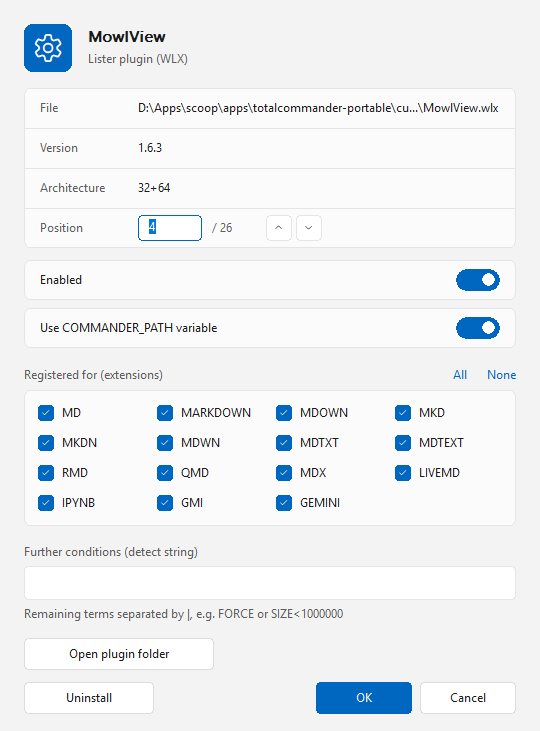
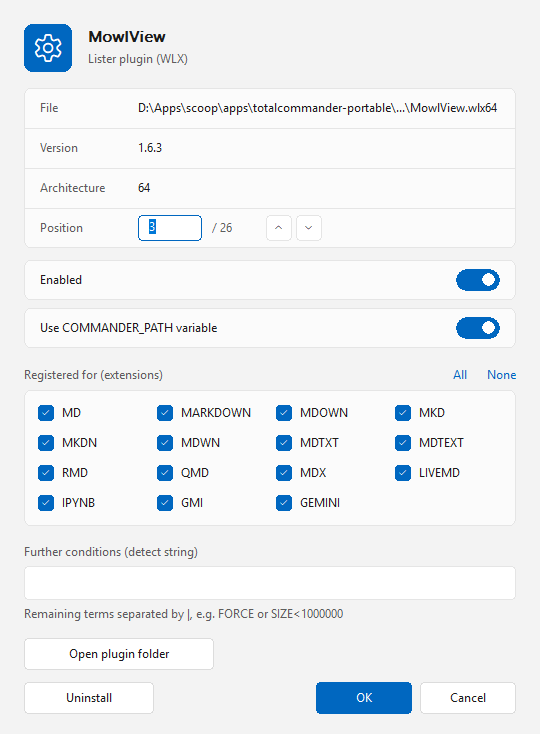
Plugins 1.2.0

diff --git a/README.de.md b/README.de.md
@@ -12,7 +12,7 @@ Er zeigt alle Plugins des Total Commanders als Dateien in einem Panel und lässt
 *Plugins* öffnest du über die Netzwerkumgebung bzw. die Liste der Dateisystem-Plugins.
 
 - Ein Ordner pro Plugin-Typ: Lister, Packer, Inhalt, Dateisystem.
-- Jedes Plugin ist eine Datei. Lister- und Inhalts-Plugins tragen ihre Ladereihenfolge als Zahl (`01`, `02`, …); deaktivierte Plugins sind mit „(aus)“ markiert und stehen am Ende.
+- Jedes Plugin ist eine Datei. Lister-, Inhalts- und Dateisystem-Plugins tragen ihre Reihenfolge als Zahl (`00`, `01`, … wie in der `wincmd.ini`); deaktivierte Plugins sind mit „(aus)“ markiert und stehen am Ende.
 - Das Panel öffnet sich in einer Spaltenansicht mit Name, Status und „Registriert für“ (Endungen eines Packers, Detect String der übrigen). Weitere Spalten für eigene Ansichten (*Benutzerdefinierte Spalten*, Plugin „Plugins“): Position, Typ, Architektur, Pfad, Version, Beschreibung.
 
 ## Aktionen
@@ -20,10 +20,10 @@ Er zeigt alle Plugins des Total Commanders als Dateien in einem Panel und lässt
 - **Installieren:** eine Plugin-Datei (`.wlx`, `.wcx`, `.wdx`, `.wfx`, auch die 64-Bit-Varianten) oder ein ZIP/7z mit `pluginst.inf` ins Panel kopieren (F5/F6, Drag & Drop), in die Wurzel oder in einen der Ordner – der Typ wird aus der Datei gelesen. Plugins fragt vorher nach und lehnt Plugins ab, die nur in der anderen Bit-Breite als der Total Commander vorliegen. Die Dateien landen im Plugin-Ordner des Total Commanders und das Plugin wird registriert (Lister: der Detect String wird aus dem Plugin gelesen, Packer: Endungen aus `pluginst.inf` oder werden erfragt). Eine Plugin-Datei, die der Total Commander geladen hat, lässt sich nicht überschreiben; die alte Datei wird daher in *Name*`.old` umbenannt und die neue daneben geschrieben. Die `.old`-Datei wird beim nächsten Laden von Plugins gelöscht.
 - **Deinstallieren:** Entf, oder die Schaltfläche *Deinstallieren* in den Eigenschaften (Enter). Das Plugin wird abgemeldet und sein Ordner in den Papierkorb verschoben.
 - **Aktivieren / Deaktivieren:** Alt+Enter. Ein deaktiviertes Plugin bleibt in `[InactivePlugins]` und kehrt an seinen Platz zurück, wenn du es wieder aktivierst.
-- **Reihenfolge ändern:** in den Eigenschaften (Enter) die Pfeil-Buttons neben der Position benutzen (oder die Tasten Hoch und Runter), die neue Position eintippen, oder den Eintrag umbenennen (Umschalt+F6) und die Zahl am Anfang ändern, zum Beispiel `05 Synta` in `01 Synta`. Nur Lister- und Inhalts-Plugins haben eine Reihenfolge.
+- **Reihenfolge ändern:** in den Eigenschaften (Enter) die Pfeil-Buttons neben der Position benutzen (oder die Tasten Hoch und Runter), die neue Position eintippen, oder den Eintrag umbenennen (Umschalt+F6) und die Zahl am Anfang ändern, zum Beispiel `05 Synta` in `01 Synta`. Lister-, Inhalts- und Dateisystem-Plugins haben eine Reihenfolge (bei Dateisystem-Plugins die der Einträge in der wincmd.ini; der Total Commander 11.5 zeigt sie in der Netzwerkumgebung trotzdem nach Namen sortiert); Packer nicht. Optional (Einstellung „Alt+Hoch / Alt+Runter verschiebt Lister-, Inhalts- und Dateisystem-Plugins“, standardmäßig aus): Alt+Hoch / Alt+Runter verschiebt den Eintrag unter dem Cursor direkt im Panel um eine Stelle, der Cursor folgt; das gilt nur in den Ordnern Lister, Inhalt und Dateisystem.
 - **Eigenschaften** (Enter): bei Lister- und Inhalts-Plugins werden die Endungen des Detect Strings als Kontrollkästchen angezeigt, zusammen mit denen, die das Plugin selbst vorschlägt; an- oder abhaken, *Alle* / *Keine* benutzen. Andere Teile des Detect Strings (`FORCE`, `SIZE<…`, Gruppen) bleiben unverändert in einem Feld darunter. Bei Packern sind die Kontrollkästchen die Endungen, für die der Packer registriert ist; eine Endung, die ein anderer Packer benutzt, wechselt zu diesem.
 - Derselbe Dialog hat einen Schalter *Pfad mit %COMMANDER_PATH% speichern*: der Plugin-Pfad wird als `%COMMANDER_PATH%\plugins\…` (portabel) oder als absoluter Pfad gespeichert.
-- **Info** in der Wurzel zeigt den Über-Dialog, **Einstellungen** öffnet die Einstellungen: Darstellung (Auto / Hell / Dunkel), Sprache (Auto / Deutsch / English), ob neue Plugins mit `%COMMANDER_PATH%` gespeichert werden, ob nur die zur Bitbreite des Total Commanders passenden Dateien kopiert werden (32 oder 64 Bit), eine Schaltfläche *Aufräumen*, die ungenutzte 32-/64-Bit-Dateien registrierter Plugins in den Papierkorb verschiebt, und die Benachrichtigungen – vor dem Installieren fragen, Bestätigung nach erfolgreicher Installation, vor dem Löschen fragen, Bestätigung nach dem Löschen.
+- **Info** in der Wurzel zeigt den Über-Dialog, **Einstellungen** öffnet die Einstellungen: Darstellung (Auto / Hell / Dunkel), Sprache (Auto / Deutsch / English), ob neue Plugins mit `%COMMANDER_PATH%` gespeichert werden, ob nur die zur Bitbreite des Total Commanders passenden Dateien kopiert werden (32 oder 64 Bit), eine Schaltfläche *Aufräumen*, die ungenutzte 32-/64-Bit-Dateien registrierter Plugins in den Papierkorb verschiebt, und die Benachrichtigungen – vor dem Installieren fragen, Bestätigung nach erfolgreicher Installation, vor dem Löschen fragen, Bestätigung nach dem Löschen – und die Taste Alt+Hoch / Alt+Runter zum Umsortieren.
 
 Änderungen werden in `wincmd.ini` geschrieben (und in die Datei, auf die sie die Plugin-Abschnitte umleitet); eine Kopie der vorherigen Datei bleibt als `*.plugins-bak` erhalten. Der Total Commander übernimmt sie nach einem Neustart.
 
@@ -34,7 +34,7 @@ Helles und dunkles Design im Windows-11-Stil, Oberfläche auf Deutsch und Englis
 1. **`Plugins.zip`** vom [neuesten Release](https://github.com/naderi/tc-plugins/releases/latest) herunterladen.
 2. Das ZIP im Total Commander öffnen (Enter auf der Datei) und die Frage nach der Installation des Plugins bestätigen.
 
-Voraussetzung: Total Commander 32 oder 64 Bit unter Windows 10 oder 11. Die Einstellungen stehen in `fsplugin.ini` neben `wincmd.ini`, Abschnitt `[Plugins]` (`Theme`, `Language`, `StorePathWithVariable`, `OnlyOwnBitness`, `AskBeforeInstall`, `MessageAfterInstall`, `AskBeforeUninstall`, `MessageAfterUninstall`).
+Voraussetzung: Total Commander 32 oder 64 Bit unter Windows 10 oder 11. Die Einstellungen stehen in `fsplugin.ini` neben `wincmd.ini`, Abschnitt `[Plugins]` (`Theme`, `Language`, `StorePathWithVariable`, `OnlyOwnBitness`, `AskBeforeInstall`, `MessageAfterInstall`, `AskBeforeUninstall`, `MessageAfterUninstall`, `ReorderHotkey`).
 
 ## Lizenz
 

diff --git a/README.md b/README.md
@@ -12,7 +12,7 @@ It shows all of Total Commander's plugins as files in a panel and lets you insta
 Open *Plugins* from Network Neighborhood / the file system list.
 
 - One folder per plugin type: Lister, Packer, Content, File system.
-- Every plugin is a file. Lister and content plugins carry their load order as a number (`01`, `02`, …); disabled plugins are marked "(off)" and listed last.
+- Every plugin is a file. Lister, content and file system plugins carry their order as a number (`00`, `01`, … as in `wincmd.ini`); disabled plugins are marked "(off)" and listed last.
 - The panel opens in a column view with Name, Status and "Registered for" (extensions of a packer, detect string of the others). Further columns for your own views (*Configure custom columns*, plugin "Plugins"): Position, Type, Architecture, Path, Version, Description.
 
 ## Actions
@@ -20,10 +20,10 @@ Open *Plugins* from Network Neighborhood / the file system list.
 - **Install:** copy a plugin file (`.wlx`, `.wcx`, `.wdx`, `.wfx`, also the 64-bit variants) or a ZIP/7z with `pluginst.inf` into the panel (F5/F6, drag and drop), in the root or in any of its folders – the type is taken from the file. Plugins asks first and refuses plugins that exist only in the other bit width than Total Commander. Files go to the plugin folder of Total Commander and the plugin is registered (lister: the detect string is read from the plugin, packer: extensions from `pluginst.inf` or asked for). A plugin file that Total Commander has loaded cannot be overwritten, so the old file is renamed to *name*`.old` and the new one is written next to it; the `.old` file is deleted the next time Plugins is loaded.
 - **Uninstall:** Delete, or the *Uninstall* button in the properties (Enter). The plugin is unregistered and its folder moved to the Recycle Bin.
 - **Enable / disable:** Alt+Enter. A disabled plugin stays in `[InactivePlugins]` and returns to its place when enabled again.
-- **Reorder:** in the properties (Enter) use the arrow buttons next to the position (or the Up and Down keys), type the new position, or rename the entry (Shift+F6) and change the number at the start, for example `05 Synta` to `01 Synta`. Only lister and content plugins use an order.
+- **Reorder:** in the properties (Enter) use the arrow buttons next to the position (or the Up and Down keys), type the new position, or rename the entry (Shift+F6) and change the number at the start, for example `05 Synta` to `01 Synta`. Lister, content and file system plugins use an order (for file system plugins it is the order of the entries in wincmd.ini; Total Commander 11.5 still shows them sorted by name in Network Neighborhood); packers do not. Optionally (setting "Alt+Up / Alt+Down moves lister, content and file system plugins", off by default) Alt+Up / Alt+Down moves the entry under the cursor by one place directly in the panel and the cursor follows it; this works in the Lister, Content and File system folders only.
 - **Properties** (Enter): for lister and content plugins the extensions of the detect string are shown as check boxes together with the ones the plugin proposes itself; tick or untick them, use *All* / *None*. Other terms of the detect string (`FORCE`, `SIZE<…`, groups) stay as they are in a field below. For packers the check boxes are the extensions the packer is registered for; an extension that another packer uses moves over to this one.
 - The same dialog has a switch *Use COMMANDER_PATH variable*: the plugin path is stored as `%COMMANDER_PATH%\plugins\…` (portable) or as an absolute path.
-- **Info** in the root shows the about dialog, **Settings** opens the settings: theme (automatic / light / dark), language (automatic / German / English), whether new plugins are stored with `%COMMANDER_PATH%`, whether only the files matching Total Commander's bit width are copied (32 or 64 bit), a *Clean up* button that moves unused 32/64-bit files of registered plugins to the Recycle Bin, and the notifications – ask before installing, confirmation after a successful installation, ask before deleting, confirmation after deleting.
+- **Info** in the root shows the about dialog, **Settings** opens the settings: theme (automatic / light / dark), language (automatic / German / English), whether new plugins are stored with `%COMMANDER_PATH%`, whether only the files matching Total Commander's bit width are copied (32 or 64 bit), a *Clean up* button that moves unused 32/64-bit files of registered plugins to the Recycle Bin, and the notifications – ask before installing, confirmation after a successful installation, ask before deleting, confirmation after deleting – and the Alt+Up / Alt+Down key for reordering.
 
 Changes are written to `wincmd.ini` (and the file it redirects the plugin sections to); a copy of the previous file is kept as `*.plugins-bak`. Total Commander applies them after a restart.
 
@@ -34,7 +34,7 @@ Light and dark design in the Windows 11 look, English and German user interface 
 1. Download **`Plugins.zip`** from the [latest release](https://github.com/naderi/tc-plugins/releases/latest).
 2. Open the ZIP in Total Commander (Enter on the file) and confirm the question whether to install the plugin.
 
-Requires Total Commander 32 or 64 bit on Windows 10 or 11. Settings are stored in `fsplugin.ini` next to `wincmd.ini`, section `[Plugins]` (`Theme`, `Language`, `StorePathWithVariable`, `OnlyOwnBitness`, `AskBeforeInstall`, `MessageAfterInstall`, `AskBeforeUninstall`, `MessageAfterUninstall`).
+Requires Total Commander 32 or 64 bit on Windows 10 or 11. Settings are stored in `fsplugin.ini` next to `wincmd.ini`, section `[Plugins]` (`Theme`, `Language`, `StorePathWithVariable`, `OnlyOwnBitness`, `AskBeforeInstall`, `MessageAfterInstall`, `AskBeforeUninstall`, `MessageAfterUninstall`, `ReorderHotkey`).
 
 ## License
 
